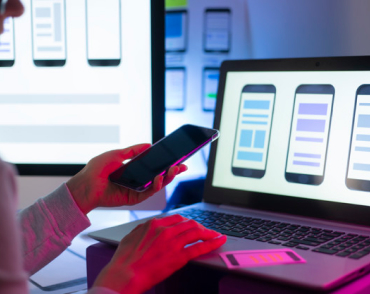
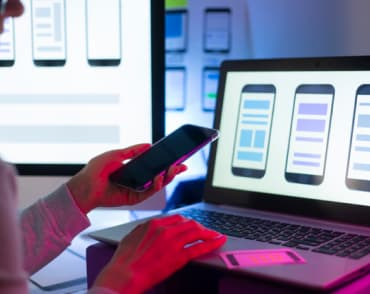
update

diff --git a/css/main.min.css b/css/main.min.css
@@ -1,1 +1,1 @@
-:root{--title-color: #212121;--hero-color: #ffffff;--background-color: #ffffff;--fon-color: #2f303a;--accent-color: #2196f3;--text-color: #757575;--addres-text: rgba(255, 255, 255, 0.6);--background-button: #f5f4fa;--background-team: #f5f4fa;--border-color: #eeeeee;--header-line: #ececec;--icon-color: #afb1b8;--hover-blue: #188CE8}.container{width:100%;margin:0 auto;padding:0 15px}@media screen and (min-width: 480px){.container{max-width:480px}}@media screen and (min-width: 768px){.container{max-width:768px}}@media screen and (min-width: 1200px){.container{max-width:1200px}}.nav__list,.contacts,.specifics__list,.ocupation__list,.team__list,.address__list,.filtr__item,.project__item,.location__item,.list{list-style:none}.body{font-family:"Roboto",sans-serif;font-style:normal;font-size:14px;letter-spacing:.03em;color:var(--title-color);background-color:var(--background-color)}ul{padding:0;margin:0}img{display:block;max-width:100%;height:auto}h2{margin:0px}p{margin:0px}.header{border-bottom:1px solid var(--header-line)}.header__container{display:-webkit-box;display:-ms-flexbox;display:flex;-webkit-box-align:center;-ms-flex-align:center;align-items:center}.current::after{position:absolute;display:block;content:"";bottom:-1px;width:100%;height:4px;border-radius:2px;background-color:var(--accent-color);-webkit-transition:background-color 250ms cubic-bezier(0.4, 0, 0.2, 1);transition:background-color 250ms cubic-bezier(0.4, 0, 0.2, 1)}.logo{color:var(--accent-color);font-family:"Raleway",sans-serif;font-weight:700;font-size:26px;line-height:1.2;text-decoration:none}.menu__logo{color:var(--title-color)}.logo__footer{color:var(--hero-color)}.nav{display:-webkit-box;display:-ms-flexbox;display:flex;text-align:center;-webkit-box-align:center;-ms-flex-align:center;align-items:center}.nav__list{display:-webkit-box;display:-ms-flexbox;display:flex;gap:50px;margin-left:93px;-webkit-box-align:center;-ms-flex-align:center;align-items:center}.nav__item{font-weight:500;color:var(--title-color);-webkit-transition:color 250ms cubic-bezier(0.4, 0, 0.2, 1);transition:color 250ms cubic-bezier(0.4, 0, 0.2, 1)}.nav__text.current{color:var(--accent-color);position:relative;-webkit-transition:color 250ms cubic-bezier(0.4, 0, 0.2, 1);transition:color 250ms cubic-bezier(0.4, 0, 0.2, 1)}.nav__list .contacts :hover,.header :focus{color:var(--accent-color)}.nav__item :hover,.nav__item :focus{color:var(--accent-color)}.nav__text{display:block;padding:32px 0;line-height:1.14;letter-spacing:.02em;text-decoration:none;text-align:center;color:var(--title-color);-webkit-transition:color 250ms cubic-bezier(0.4, 0, 0.2, 1);transition:color 250ms cubic-bezier(0.4, 0, 0.2, 1)}.contacts{margin-left:auto;gap:30px;display:-webkit-box;display:-ms-flexbox;display:flex}.contacts__item{font-weight:500;color:var(--text-color);background-color:var(--background-color)}.contacts__text{text-decoration:none;color:var(--text-color);gap:10px;display:-webkit-box;display:-ms-flexbox;display:flex;-webkit-box-align:center;-ms-flex-align:center;align-items:center;-webkit-box-pack:center;-ms-flex-pack:center;justify-content:center;-webkit-transition:color 250ms cubic-bezier(0.4, 0, 0.2, 1);transition:color 250ms cubic-bezier(0.4, 0, 0.2, 1)}.contacts__text:hover,.contacts__text:focus{color:var(--accent-color)}.contacts__icon{width:16px;height:16px;fill:var(--text-color);-webkit-transition:fill 250ms cubic-bezier(0.4, 0, 0.2, 1);transition:fill 250ms cubic-bezier(0.4, 0, 0.2, 1)}.contacts__text:hover .contacts__icon,.contacts__text:focus .contacts__icon{fill:var(--accent-color)}.hero{padding:200px 0;max-width:100%;margin:0 auto;background-image:-webkit-gradient(linear, left top, left bottom, from(rgba(47, 48, 58, 0.4)), to(rgba(47, 48, 58, 0.4))),url(/images/heromo1x.jpg);background-image:linear-gradient(rgba(47, 48, 58, 0.4), rgba(47, 48, 58, 0.4)),url(/images/heromo1x.jpg);background-repeat:no-repeat;background-position:center;background-size:cover;-webkit-transition:background-image 250ms cubic-bezier(0.4, 0, 0.2, 1);transition:background-image 250ms cubic-bezier(0.4, 0, 0.2, 1)}@media(min-device-pixel-ratio: 2),(-webkit-min-device-pixel-ratio: 2),(min-resolution: 192dpi),(min-resolution: 2dppx){.hero{background-image:-webkit-gradient(linear, left top, left bottom, from(rgba(47, 48, 58, 0.4)), to(rgba(47, 48, 58, 0.4))),url(/images/heromo2x.jpg);background-image:linear-gradient(rgba(47, 48, 58, 0.4), rgba(47, 48, 58, 0.4)),url(/images/heromo2x.jpg)}}.hero__title{text-transform:uppercase;font-style:normal;font-weight:900;font-size:44px;width:696px;text-align:center;margin:0 auto;line-height:1.36;color:var(--hero-color);-webkit-transition:color 250ms cubic-bezier(0.4, 0, 0.2, 1);transition:color 250ms cubic-bezier(0.4, 0, 0.2, 1)}.hero__button{font-weight:700;font-size:16px;line-height:1.8;color:var(--hero-color);width:216px;padding:10px 32px;margin:40px auto 0;border:none;cursor:pointer;background-color:var(--accent-color);border-radius:4px;display:block;letter-spacing:inherit;-webkit-transition:background-color 250ms cubic-bezier(0.4, 0, 0.2, 1);transition:background-color 250ms cubic-bezier(0.4, 0, 0.2, 1)}.specifics{padding-top:94px}.specifics__caption{position:absolute;white-space:nowrap;width:1px;height:1px;overflow:hidden;border:0;padding:0;clip:rect(0 0 0 0);-webkit-clip-path:inset(50%);clip-path:inset(50%);margin:-1px}.specifics__list{display:-webkit-box;display:-ms-flexbox;display:flex;padding:94px auto;gap:30px}.specifics__link{max-width:270px}.specifics__title{font-weight:700;font-size:14px;line-height:1.14;margin:0;text-transform:uppercase;color:var(--title-color)}.specifics__text{font-size:14px;line-height:1.714;margin-top:10px;color:var(--text-color)}.planning{display:-webkit-box;display:-ms-flexbox;display:flex;width:270px;height:120px;background:var(--background-team);border-radius:4px;-webkit-box-pack:center;-ms-flex-pack:center;justify-content:center;-webkit-box-align:center;-ms-flex-align:center;align-items:center;margin-bottom:30px}.ocupation{padding-top:94px;padding-bottom:94px}.ocupation__title{font-weight:700;font-size:36px;line-height:1.16;text-align:center;color:var(--title-color)}.ocupation__list{display:-webkit-box;display:-ms-flexbox;display:flex;gap:30px;margin-top:50px}.ocupation__link{position:relative;overflow:hidden}.ocupation__text{font-weight:700;font-size:14px;line-height:1.1428571429;text-align:center;letter-spacing:.03em;text-transform:uppercase;position:absolute;bottom:0;padding:27px 0;width:100%;color:var(--background-color);background-color:rgba(47,48,58,.8)}.team{background:var(--background-team)}.section{padding-top:94px;padding-bottom:94px}.team__cart{padding-top:30px;padding-bottom:30px}.team__title{font-weight:700;font-size:36px;line-height:1.16;margin-bottom:50px;text-align:center}.team__list{display:-webkit-box;display:-ms-flexbox;display:flex;gap:30px;text-align:center;-webkit-box-pack:center;-ms-flex-pack:center;justify-content:center}.personal__link{background-color:var(--background-color);-webkit-box-shadow:0px 1px 3px rgba(0,0,0,.12),0px 1px 1px rgba(0,0,0,.14),0px 2px 1px rgba(0,0,0,.2);box-shadow:0px 1px 3px rgba(0,0,0,.12),0px 1px 1px rgba(0,0,0,.14),0px 2px 1px rgba(0,0,0,.2);border-radius:0px 0px 4px 4px}.personal__title{font-weight:500;font-size:16px;line-height:1.18;margin:0;color:var(--title-color)}.personal__text{font-weight:400;font-size:16px;line-height:1.18;margin-top:10px;color:var(--text-color);margin-bottom:16px}.personal__soc__list{display:-webkit-box;display:-ms-flexbox;display:flex;-webkit-box-pack:center;-ms-flex-pack:center;justify-content:center;gap:10px}.personal__soc__link{width:44px;height:44px;border-radius:50%;background-color:var(--background-color);display:-webkit-box;display:-ms-flexbox;display:flex;-webkit-box-align:center;-ms-flex-align:center;align-items:center;-webkit-box-pack:center;-ms-flex-pack:center;justify-content:center;-webkit-transition:background-color 250ms cubic-bezier(0.4, 0, 0.2, 1);transition:background-color 250ms cubic-bezier(0.4, 0, 0.2, 1)}.personal__soc__icon{fill:var(--icon-color);-webkit-transition:fill 250ms cubic-bezier(0.4, 0, 0.2, 1);transition:fill 250ms cubic-bezier(0.4, 0, 0.2, 1)}.personal__soc__link:hover,.personal__soc__link:focus{background-color:var(--accent-color)}.personal__soc__link:hover .personal__soc__icon,.personal__soc__link:focus .personal__soc__icon{fill:var(--hero-color)}.customers{font-weight:700;font-size:36px;line-height:1.1666666667;text-align:center;letter-spacing:.03em}.customers__item{display:-webkit-box;display:-ms-flexbox;display:flex;margin-top:50px;gap:30px}.customers__link:hover,.customers__link:focus{border-color:var(--accent-color)}.customers__link:hover .customers__icon,.customers__link:focus .customers__icon{fill:var(--accent-color)}.customers__list{width:170px;height:92px}.customers__link{width:100%;height:100%;display:-webkit-box;display:-ms-flexbox;display:flex;-webkit-box-pack:center;-ms-flex-pack:center;justify-content:center;-webkit-box-align:center;-ms-flex-align:center;align-items:center;border:1px solid var(--icon-color);border-radius:4px;-webkit-transition:border 250ms cubic-bezier(0.4, 0, 0.2, 1);transition:border 250ms cubic-bezier(0.4, 0, 0.2, 1)}.customers__icon{fill:var(--icon-color);-webkit-transition:fill 250ms cubic-bezier(0.4, 0, 0.2, 1);transition:fill 250ms cubic-bezier(0.4, 0, 0.2, 1)}.portfolio{padding:94px 0}.filtr__list{display:-webkit-box;display:-ms-flexbox;display:flex;gap:8px;-webkit-box-pack:center;-ms-flex-pack:center;justify-content:center}.button__filtr{font-weight:500;font-size:16px;line-height:1.62;padding:6px 22px;border:none;cursor:pointer;border-radius:4px;background-color:var(--background-button);-webkit-transition:background-color 250ms cubic-bezier(0.4, 0, 0.2, 1),color 250ms cubic-bezier(0.4, 0, 0.2, 1);transition:background-color 250ms cubic-bezier(0.4, 0, 0.2, 1),color 250ms cubic-bezier(0.4, 0, 0.2, 1)}.filtr__link :hover,.filtr__link :focus{color:var(--hero-color);background-color:var(--accent-color)}.button__filtr:hover,.button__filtr:focus{background-color:var(--hover-blue);color:var(--hero-color)}.project__list{display:-webkit-box;display:-ms-flexbox;display:flex;margin-top:50px;-ms-flex-wrap:wrap;flex-wrap:wrap;gap:30px}.project__cart{padding:20px 24px;border-right:1px solid var(--border-color);border-bottom:1px solid var(--border-color);border-left:1px solid var(--border-color)}.project__title{font-weight:700;font-size:18px;line-height:2;margin-bottom:4px;color:var(--title-color)}.project__item{width:370px;height:404px;border:1px solid var(--portfolio-projects-border-color);-webkit-transition:-webkit-box-shadow var(--transition);transition:-webkit-box-shadow var(--transition);transition:box-shadow var(--transition);transition:box-shadow var(--transition), -webkit-box-shadow var(--transition)}.project__text{font-weight:400;font-size:16px;line-height:1.8;color:var(--text-color)}.project__link{text-decoration:none}.project__link:hover .project__top__text{-webkit-transform:translateY(0);transform:translateY(0)}.project__top__wrap{position:relative;overflow:hidden}.project__top__text{position:absolute;top:0;font-weight:400;font-size:18px;line-height:1.5555555556;color:var(--background-color);background-color:rgba(33,150,243,.9);padding:63px 24px;height:100%;-webkit-transform:translateY(100%);transform:translateY(100%);-webkit-transition:-webkit-transform 250ms cubic-bezier(0.4, 0, 0.2, 1);transition:-webkit-transform 250ms cubic-bezier(0.4, 0, 0.2, 1);transition:transform 250ms cubic-bezier(0.4, 0, 0.2, 1);transition:transform 250ms cubic-bezier(0.4, 0, 0.2, 1), -webkit-transform 250ms cubic-bezier(0.4, 0, 0.2, 1);overflow:auto}.project__item:hover,.project__item:focus{-webkit-box-shadow:0px 1px 1px rgba(0,0,0,.12),0px 4px 4px rgba(0,0,0,.06),1px 4px 6px rgba(0,0,0,.16);box-shadow:0px 1px 1px rgba(0,0,0,.12),0px 4px 4px rgba(0,0,0,.06),1px 4px 6px rgba(0,0,0,.16)}.footer{padding:60px 0;background:var(--fon-color)}.address{margin-top:20px;line-height:1.714}.location__text{text-decoration:none;font-family:"Roboto";font-style:normal;font-weight:400;font-size:14px;line-height:1.17;color:var(--hero-color)}.address__text{text-decoration:none;font-family:"Roboto";font-style:normal;font-weight:400;font-size:14px;line-height:1.17;color:var(--addres-text);-webkit-transition:color 250ms cubic-bezier(0.4, 0, 0.2, 1);transition:color 250ms cubic-bezier(0.4, 0, 0.2, 1)}.address__link{margin-top:9px}.address__link:first-child{margin:0}.address__text:hover,.address__text:focus{color:var(--accent-color)}.social__container{margin-left:70px}.social__title{padding-top:12px}.social__title{padding:0;font-weight:700;text-transform:uppercase;color:var(--background-color);margin-bottom:20px;font-size:14px;line-height:1.1}.social__list{display:-webkit-box;display:-ms-flexbox;display:flex;gap:10px;-webkit-transition:color 250ms cubic-bezier(0.4, 0, 0.2, 1);transition:color 250ms cubic-bezier(0.4, 0, 0.2, 1)}.social__item{width:44px;height:44px}.social__link{width:44px;height:44px;border-radius:50%;background-color:rgba(255,255,255,.1);display:-webkit-box;display:-ms-flexbox;display:flex;-webkit-box-align:center;-ms-flex-align:center;align-items:center;-webkit-box-pack:center;-ms-flex-pack:center;justify-content:center;-webkit-transition:background-color 250ms cubic-bezier(0.4, 0, 0.2, 1);transition:background-color 250ms cubic-bezier(0.4, 0, 0.2, 1)}.social__icon{fill:var(--hero-color)}.social__link:hover,.social__link:focus{background-color:var(--accent-color)}.social__link:hover .social__icon,.social__link:focus .social__icon{fill:var(--hero-color)}.subsciption__conteiner{margin-left:93px}.subscription__title{padding:0;font-weight:700;text-transform:uppercase;color:var(--background-color);margin-bottom:20px;font-size:14px;line-height:1.1}.subscription__field{display:-webkit-box;display:-ms-flexbox;display:flex}.subscription__input{width:358px;height:50px;border-radius:4px;padding-left:16px;color:rgba(255,255,255,.6);background-color:var(--fon-color);border:1px solid rgba(255,255,255,.3);-webkit-filter:drop-shadow(0px 4px 4px rgba(0, 0, 0, 0.15));filter:drop-shadow(0px 4px 4px rgba(0, 0, 0, 0.15));outline:rgba(0,0,0,0);cursor:pointer;-webkit-transition:border-color 250ms cubic-bezier(0.4, 0, 0.2, 1);transition:border-color 250ms cubic-bezier(0.4, 0, 0.2, 1)}.subscription__input::-webkit-input-placeholder{font-weight:400;font-size:16px;line-height:1.25;color:rgba(255,255,255,.6)}.subscription__input::-moz-placeholder{font-weight:400;font-size:16px;line-height:1.25;color:rgba(255,255,255,.6)}.subscription__input:-ms-input-placeholder{font-weight:400;font-size:16px;line-height:1.25;color:rgba(255,255,255,.6)}.subscription__input::-ms-input-placeholder{font-weight:400;font-size:16px;line-height:1.25;color:rgba(255,255,255,.6)}.subscription__input::placeholder{font-weight:400;font-size:16px;line-height:1.25;color:rgba(255,255,255,.6)}.subscription__button{font-weight:700;font-size:16px;width:200px;height:50px;line-height:1.875;color:var(--hero-color);width:200px;margin-left:12px;border:none;cursor:pointer;background-color:var(--accent-color);-webkit-box-shadow:0px 4px 4px rgba(0,0,0,.15);box-shadow:0px 4px 4px rgba(0,0,0,.15);border-radius:4px;display:-webkit-box;display:-ms-flexbox;display:flex;letter-spacing:inherit;-webkit-box-align:center;-ms-flex-align:center;align-items:center;-webkit-box-pack:center;-ms-flex-pack:center;justify-content:center;-webkit-transition:color 250ms cubic-bezier(0.4, 0, 0.2, 1);transition:color 250ms cubic-bezier(0.4, 0, 0.2, 1);-webkit-transition:background-color 250ms cubic-bezier(0.4, 0, 0.2, 1);transition:background-color 250ms cubic-bezier(0.4, 0, 0.2, 1)}.subscription__icon{margin-left:10px;fill:var(--background-color)}.subscription__button:hover,.subscription__button:focus{color:var(--background-color);background-color:var(--hover-blue)}.basement{display:-webkit-box;display:-ms-flexbox;display:flex;-webkit-box-align:baseline;-ms-flex-align:baseline;align-items:baseline}.backdrop{position:fixed;top:0;width:100%;height:100%;background:rgba(0,0,0,.2);opacity:1;-webkit-transition:opacity 250ms cubic-bezier(0.4, 0, 0.2, 1),visibility 250ms cubic-bezier(0.4, 0, 0.2, 1);transition:opacity 250ms cubic-bezier(0.4, 0, 0.2, 1),visibility 250ms cubic-bezier(0.4, 0, 0.2, 1)}.is__hidden{opacity:0;visibility:hidden;pointer-events:none}.visually__hidden{position:absolute;width:1px;height:1px;margin:-1px;border:0;padding:0;white-space:nowrap;-webkit-clip-path:inset(100%);clip-path:inset(100%);clip:rect(0 0 0 0);overflow:hidden}.modal{width:528px;height:581px;background-color:var(--background-color);-webkit-box-shadow:0px 1px 3px rgba(0,0,0,.12),0px 1px 1px rgba(0,0,0,.14),0px 2px 1px rgba(0,0,0,.2);box-shadow:0px 1px 3px rgba(0,0,0,.12),0px 1px 1px rgba(0,0,0,.14),0px 2px 1px rgba(0,0,0,.2);border-radius:4px;position:absolute;top:50%;left:50%;-webkit-transform:translate(-50%, -50%) scale(1);transform:translate(-50%, -50%) scale(1);-webkit-transition:-webkit-transform 250ms cubic-bezier(0.4, 0, 0.2, 1);transition:-webkit-transform 250ms cubic-bezier(0.4, 0, 0.2, 1);transition:transform 250ms cubic-bezier(0.4, 0, 0.2, 1);transition:transform 250ms cubic-bezier(0.4, 0, 0.2, 1), -webkit-transform 250ms cubic-bezier(0.4, 0, 0.2, 1);padding:40px}.modal__title{font-weight:700;font-size:20px;line-height:1.15;text-align:center;color:var(--title-color);margin-bottom:12px}.modal__field{margin-bottom:10px;max-height:138px}.modal__field:last-child{margin-bottom:0}.modal__checkbox{margin-top:20px}.conditions__text{font-size:14px;line-height:1.7142857143;color:var(--text-color);display:-webkit-box;display:-ms-flexbox;display:flex;-webkit-box-pack:center;-ms-flex-pack:center;justify-content:center;-webkit-box-align:center;-ms-flex-align:center;align-items:center;cursor:pointer}.conditions__text span{width:16px;height:15px;border:2px solid #212121;margin-right:8px;border-radius:2px;display:-webkit-box;display:-ms-flexbox;display:flex;-webkit-box-align:center;-ms-flex-align:center;align-items:center;-webkit-box-pack:center;-ms-flex-pack:center;justify-content:center;fill:rgba(0,0,0,0)}.contract__text{color:var(--accent-color);font-size:14px;line-height:1.7142857143;margin-left:4px}.visually__hidden{position:absolute;width:1px;height:1px;margin:-1px;border:0;padding:0;white-space:nowrap;-webkit-clip-path:inset(100%);clip-path:inset(100%);clip:rect(0 0 0 0);overflow:hidden}.modal__input{width:100%;height:40px;border:1px solid rgba(33,33,33,.2);border-radius:4px;padding-left:42px;outline:rgba(0,0,0,0);cursor:pointer;-webkit-transition:border-color 250ms cubic-bezier(0.4, 0, 0.2, 1);transition:border-color 250ms cubic-bezier(0.4, 0, 0.2, 1)}.input__message{width:100%;height:120px;border:1px solid rgba(33,33,33,.2);border-radius:4px;padding:12px 16px;outline:rgba(0,0,0,0);cursor:pointer;-webkit-transition:border-color 250ms cubic-bezier(0.4, 0, 0.2, 1);transition:border-color 250ms cubic-bezier(0.4, 0, 0.2, 1);resize:none}.input__checkbox:checked+.conditions__text span{background-color:var(--accent-color);border:none;fill:var(--hero-color)}.input__wrap{position:relative}.modal__icon{position:absolute;left:12px;top:50%;-webkit-transform:translateY(-50%);transform:translateY(-50%);-webkit-transition:fill 250ms cubic-bezier(0.4, 0, 0.2, 1);transition:fill 250ms cubic-bezier(0.4, 0, 0.2, 1)}.modal__input::-webkit-input-placeholder{font-weight:400;font-size:12px;line-height:14px;letter-spacing:.01em;color:rgba(117,117,117,.5)}.modal__input::-moz-placeholder{font-weight:400;font-size:12px;line-height:14px;letter-spacing:.01em;color:rgba(117,117,117,.5)}.modal__input:-ms-input-placeholder{font-weight:400;font-size:12px;line-height:14px;letter-spacing:.01em;color:rgba(117,117,117,.5)}.modal__input::-ms-input-placeholder{font-weight:400;font-size:12px;line-height:14px;letter-spacing:.01em;color:rgba(117,117,117,.5)}.modal__input::placeholder{font-weight:400;font-size:12px;line-height:14px;letter-spacing:.01em;color:rgba(117,117,117,.5)}.modal__input:hover,.modal__input:focus{border-color:var(--accent-color)}.modal__input:hover+.modal__icon,.modal__input:focus+.modal__icon{fill:var(--accent-color)}.input__text{font-weight:400;font-size:12px;line-height:1.1666666667;letter-spacing:.01em;color:var(--text-color);display:inline-block;margin-bottom:4px}textarea::-webkit-input-placeholder{font-weight:400;font-size:12px;line-height:1.1666666667;letter-spacing:.01em;color:rgba(117,117,117,.5)}textarea::-moz-placeholder{font-weight:400;font-size:12px;line-height:1.1666666667;letter-spacing:.01em;color:rgba(117,117,117,.5)}textarea:-ms-input-placeholder{font-weight:400;font-size:12px;line-height:1.1666666667;letter-spacing:.01em;color:rgba(117,117,117,.5)}textarea::-ms-input-placeholder{font-weight:400;font-size:12px;line-height:1.1666666667;letter-spacing:.01em;color:rgba(117,117,117,.5)}textarea::placeholder{font-weight:400;font-size:12px;line-height:1.1666666667;letter-spacing:.01em;color:rgba(117,117,117,.5)}.input__message:hover,.input__message:focus{border-color:var(--accent-color)}.backdrop.is__hidden .modal{-webkit-transform:translate(-50%, -50%) scale(0);transform:translate(-50%, -50%) scale(0)}.send__button{font-weight:700;font-size:16px;line-height:1.875;color:var(--hero-color);width:200px;padding:10px 52px;margin:30px auto;margin-bottom:0;border:none;cursor:pointer;background-color:var(--accent-color);-webkit-box-shadow:0px 4px 4px rgba(0,0,0,.15);box-shadow:0px 4px 4px rgba(0,0,0,.15);border-radius:4px;display:block;letter-spacing:inherit;-webkit-transition:background-color 250ms cubic-bezier(0.4, 0, 0.2, 1);transition:background-color 250ms cubic-bezier(0.4, 0, 0.2, 1)}.send__button:hover,.send__button:focus{background-color:var(--hover-blue)}.close__button{position:absolute;right:8px;top:8px;width:30px;height:30px;cursor:pointer;background:var(--background-color);border:1px solid rgba(0,0,0,.1);border-radius:50%;background-color:rgba(0,0,0,0);display:-webkit-box;display:-ms-flexbox;display:flex;-webkit-box-align:center;-ms-flex-align:center;align-items:center;-webkit-transition:fill 250ms cubic-bezier(0.4, 0, 0.2, 1);transition:fill 250ms cubic-bezier(0.4, 0, 0.2, 1)}.close__button:hover,.close__button:focus{fill:var(--accent-color)}.icon__close{margin:0 auto;padding:0 auto}/*# sourceMappingURL=main.min.css.map */
+:root{--title-color: #212121;--hero-color: #ffffff;--background-color: #ffffff;--fon-color: #2f303a;--accent-color: #2196f3;--text-color: #757575;--addres-text: rgba(255, 255, 255, 0.6);--background-button: #f5f4fa;--background-team: #f5f4fa;--border-color: #eeeeee;--header-line: #ececec;--icon-color: #afb1b8;--hover-blue: #188CE8}.container{width:100%;margin:0 auto;padding:0 15px}@media screen and (min-width: 480px){.container{max-width:480px}}@media screen and (min-width: 768px){.container{max-width:768px}}@media screen and (min-width: 1200px){.container{max-width:1200px}}.nav__list,.contacts,.specifics__list,.ocupation__list,.team__list,.address__list,.filtr__item,.project__item,.location__item,.list{list-style:none}.body{font-family:"Roboto",sans-serif;font-style:normal;font-size:14px;letter-spacing:.03em;color:var(--title-color);background-color:var(--background-color)}ul{padding:0;margin:0}img{display:block;max-width:100%;height:auto}h2{margin:0px}p{margin:0px}.header{border-bottom:1px solid var(--header-line)}.header__container{display:-webkit-box;display:-ms-flexbox;display:flex;-webkit-box-align:center;-ms-flex-align:center;align-items:center}.current::after{position:absolute;display:block;content:"";bottom:-1px;width:100%;height:4px;border-radius:2px;background-color:var(--accent-color);-webkit-transition:background-color 250ms cubic-bezier(0.4, 0, 0.2, 1);transition:background-color 250ms cubic-bezier(0.4, 0, 0.2, 1)}.logo{color:var(--accent-color);font-family:"Raleway",sans-serif;font-weight:700;font-size:26px;line-height:1.2;text-decoration:none}.menu__logo{color:var(--title-color)}.logo__footer{color:var(--hero-color)}.nav{display:-webkit-box;display:-ms-flexbox;display:flex;text-align:center;-webkit-box-align:center;-ms-flex-align:center;align-items:center}.nav__list{display:-webkit-box;display:-ms-flexbox;display:flex;gap:50px;margin-left:93px;-webkit-box-align:center;-ms-flex-align:center;align-items:center}.nav__item{font-weight:500;color:var(--title-color);-webkit-transition:color 250ms cubic-bezier(0.4, 0, 0.2, 1);transition:color 250ms cubic-bezier(0.4, 0, 0.2, 1)}.nav__text.current{color:var(--accent-color);position:relative;-webkit-transition:color 250ms cubic-bezier(0.4, 0, 0.2, 1);transition:color 250ms cubic-bezier(0.4, 0, 0.2, 1)}.nav__list .contacts :hover,.header :focus{color:var(--accent-color)}.nav__item :hover,.nav__item :focus{color:var(--accent-color)}.nav__text{display:block;padding:32px 0;line-height:1.14;letter-spacing:.02em;text-decoration:none;text-align:center;color:var(--title-color);-webkit-transition:color 250ms cubic-bezier(0.4, 0, 0.2, 1);transition:color 250ms cubic-bezier(0.4, 0, 0.2, 1)}.contacts{margin-left:auto;gap:30px;display:-webkit-box;display:-ms-flexbox;display:flex}.contacts__item{font-weight:500;color:var(--text-color);background-color:var(--background-color)}.contacts__text{text-decoration:none;color:var(--text-color);gap:10px;display:-webkit-box;display:-ms-flexbox;display:flex;-webkit-box-align:center;-ms-flex-align:center;align-items:center;-webkit-box-pack:center;-ms-flex-pack:center;justify-content:center;-webkit-transition:color 250ms cubic-bezier(0.4, 0, 0.2, 1);transition:color 250ms cubic-bezier(0.4, 0, 0.2, 1)}.contacts__text:hover,.contacts__text:focus{color:var(--accent-color)}.contacts__icon{width:16px;height:16px;fill:var(--text-color);-webkit-transition:fill 250ms cubic-bezier(0.4, 0, 0.2, 1);transition:fill 250ms cubic-bezier(0.4, 0, 0.2, 1)}.contacts__text:hover .contacts__icon,.contacts__text:focus .contacts__icon{fill:var(--accent-color)}.hero{padding:200px 0;max-width:100%;margin:0 auto;background-image:-webkit-gradient(linear, left top, left bottom, from(rgba(47, 48, 58, 0.4)), to(rgba(47, 48, 58, 0.4))),url(/images/heromobo1x.jpg);background-image:linear-gradient(rgba(47, 48, 58, 0.4), rgba(47, 48, 58, 0.4)),url(/images/heromobo1x.jpg);background-repeat:no-repeat;background-position:center;background-size:cover;-webkit-transition:background-image 250ms cubic-bezier(0.4, 0, 0.2, 1);transition:background-image 250ms cubic-bezier(0.4, 0, 0.2, 1)}@media(min-device-pixel-ratio: 2),(-webkit-min-device-pixel-ratio: 2),(min-resolution: 192dpi),(min-resolution: 2dppx){.hero{background-image:-webkit-gradient(linear, left top, left bottom, from(rgba(47, 48, 58, 0.4)), to(rgba(47, 48, 58, 0.4))),url(/images/heromobo2x.jpg);background-image:linear-gradient(rgba(47, 48, 58, 0.4), rgba(47, 48, 58, 0.4)),url(/images/heromobo2x.jpg)}}.hero__title{text-transform:uppercase;font-style:normal;font-weight:900;font-size:44px;width:100%;text-align:center;margin:0 auto;line-height:1.36;color:var(--hero-color);-webkit-transition:color 250ms cubic-bezier(0.4, 0, 0.2, 1);transition:color 250ms cubic-bezier(0.4, 0, 0.2, 1)}.hero__button{font-weight:700;font-size:16px;line-height:1.8;color:var(--hero-color);width:216px;padding:10px 32px;margin:40px auto 0;border:none;cursor:pointer;background-color:var(--accent-color);border-radius:4px;display:block;letter-spacing:inherit;-webkit-transition:background-color 250ms cubic-bezier(0.4, 0, 0.2, 1);transition:background-color 250ms cubic-bezier(0.4, 0, 0.2, 1)}.specifics{padding-top:94px}.specifics__caption{position:absolute;white-space:nowrap;width:1px;height:1px;overflow:hidden;border:0;padding:0;clip:rect(0 0 0 0);-webkit-clip-path:inset(50%);clip-path:inset(50%);margin:-1px}.specifics__list{display:-webkit-box;display:-ms-flexbox;display:flex;padding:94px auto;gap:30px}.specifics__link{max-width:270px}.specifics__title{font-weight:700;font-size:14px;line-height:1.14;margin:0;text-transform:uppercase;color:var(--title-color)}.specifics__text{font-size:14px;line-height:1.714;margin-top:10px;color:var(--text-color)}.planning{display:-webkit-box;display:-ms-flexbox;display:flex;width:270px;height:120px;background:var(--background-team);border-radius:4px;-webkit-box-pack:center;-ms-flex-pack:center;justify-content:center;-webkit-box-align:center;-ms-flex-align:center;align-items:center;margin-bottom:30px}.ocupation{padding-top:94px;padding-bottom:94px}.ocupation__title{font-weight:700;font-size:36px;line-height:1.16;text-align:center;color:var(--title-color)}.ocupation__list{display:-webkit-box;display:-ms-flexbox;display:flex;gap:30px;margin-top:50px}.ocupation__link{position:relative;overflow:hidden}.ocupation__text{font-weight:700;font-size:14px;line-height:1.1428571429;text-align:center;letter-spacing:.03em;text-transform:uppercase;position:absolute;bottom:0;padding:27px 0;width:100%;color:var(--background-color);background-color:rgba(47,48,58,.8)}.team{background:var(--background-team)}.section{padding-top:94px;padding-bottom:94px}.team__cart{padding-top:30px;padding-bottom:30px}.team__title{font-weight:700;font-size:36px;line-height:1.16;margin-bottom:50px;text-align:center}.team__list{display:-webkit-box;display:-ms-flexbox;display:flex;gap:30px;text-align:center;-webkit-box-pack:center;-ms-flex-pack:center;justify-content:center}.personal__link{background-color:var(--background-color);-webkit-box-shadow:0px 1px 3px rgba(0,0,0,.12),0px 1px 1px rgba(0,0,0,.14),0px 2px 1px rgba(0,0,0,.2);box-shadow:0px 1px 3px rgba(0,0,0,.12),0px 1px 1px rgba(0,0,0,.14),0px 2px 1px rgba(0,0,0,.2);border-radius:0px 0px 4px 4px}.personal__title{font-weight:500;font-size:16px;line-height:1.18;margin:0;color:var(--title-color)}.personal__text{font-weight:400;font-size:16px;line-height:1.18;margin-top:10px;color:var(--text-color);margin-bottom:16px}.personal__soc__list{display:-webkit-box;display:-ms-flexbox;display:flex;-webkit-box-pack:center;-ms-flex-pack:center;justify-content:center;gap:10px}.personal__soc__link{width:44px;height:44px;border-radius:50%;background-color:var(--background-color);display:-webkit-box;display:-ms-flexbox;display:flex;-webkit-box-align:center;-ms-flex-align:center;align-items:center;-webkit-box-pack:center;-ms-flex-pack:center;justify-content:center;-webkit-transition:background-color 250ms cubic-bezier(0.4, 0, 0.2, 1);transition:background-color 250ms cubic-bezier(0.4, 0, 0.2, 1)}.personal__soc__icon{fill:var(--icon-color);-webkit-transition:fill 250ms cubic-bezier(0.4, 0, 0.2, 1);transition:fill 250ms cubic-bezier(0.4, 0, 0.2, 1)}.personal__soc__link:hover,.personal__soc__link:focus{background-color:var(--accent-color)}.personal__soc__link:hover .personal__soc__icon,.personal__soc__link:focus .personal__soc__icon{fill:var(--hero-color)}.customers{font-weight:700;font-size:36px;line-height:1.1666666667;text-align:center;letter-spacing:.03em}.customers__item{display:-webkit-box;display:-ms-flexbox;display:flex;margin-top:50px;gap:30px}.customers__link:hover,.customers__link:focus{border-color:var(--accent-color)}.customers__link:hover .customers__icon,.customers__link:focus .customers__icon{fill:var(--accent-color)}.customers__list{width:170px;height:92px}.customers__link{width:100%;height:100%;display:-webkit-box;display:-ms-flexbox;display:flex;-webkit-box-pack:center;-ms-flex-pack:center;justify-content:center;-webkit-box-align:center;-ms-flex-align:center;align-items:center;border:1px solid var(--icon-color);border-radius:4px;-webkit-transition:border 250ms cubic-bezier(0.4, 0, 0.2, 1);transition:border 250ms cubic-bezier(0.4, 0, 0.2, 1)}.customers__icon{fill:var(--icon-color);-webkit-transition:fill 250ms cubic-bezier(0.4, 0, 0.2, 1);transition:fill 250ms cubic-bezier(0.4, 0, 0.2, 1)}.portfolio{padding:94px 0}.filtr__list{display:-webkit-box;display:-ms-flexbox;display:flex;gap:8px;-webkit-box-pack:center;-ms-flex-pack:center;justify-content:center}.button__filtr{font-weight:500;font-size:16px;line-height:1.62;padding:6px 22px;border:none;cursor:pointer;border-radius:4px;background-color:var(--background-button);-webkit-transition:background-color 250ms cubic-bezier(0.4, 0, 0.2, 1),color 250ms cubic-bezier(0.4, 0, 0.2, 1);transition:background-color 250ms cubic-bezier(0.4, 0, 0.2, 1),color 250ms cubic-bezier(0.4, 0, 0.2, 1)}.filtr__link :hover,.filtr__link :focus{color:var(--hero-color);background-color:var(--accent-color)}.button__filtr:hover,.button__filtr:focus{background-color:var(--hover-blue);color:var(--hero-color)}.project__list{display:-webkit-box;display:-ms-flexbox;display:flex;margin-top:50px;-ms-flex-wrap:wrap;flex-wrap:wrap;gap:30px}.project__cart{padding:20px 24px;border-right:1px solid var(--border-color);border-bottom:1px solid var(--border-color);border-left:1px solid var(--border-color)}.project__title{font-weight:700;font-size:18px;line-height:2;margin-bottom:4px;color:var(--title-color)}.project__item{width:370px;height:404px;border:1px solid var(--portfolio-projects-border-color);-webkit-transition:-webkit-box-shadow var(--transition);transition:-webkit-box-shadow var(--transition);transition:box-shadow var(--transition);transition:box-shadow var(--transition), -webkit-box-shadow var(--transition)}.project__text{font-weight:400;font-size:16px;line-height:1.8;color:var(--text-color)}.project__link{text-decoration:none}.project__link:hover .project__top__text{-webkit-transform:translateY(0);transform:translateY(0)}.project__top__wrap{position:relative;overflow:hidden}.project__top__text{position:absolute;top:0;font-weight:400;font-size:18px;line-height:1.5555555556;color:var(--background-color);background-color:rgba(33,150,243,.9);padding:63px 24px;height:100%;-webkit-transform:translateY(100%);transform:translateY(100%);-webkit-transition:-webkit-transform 250ms cubic-bezier(0.4, 0, 0.2, 1);transition:-webkit-transform 250ms cubic-bezier(0.4, 0, 0.2, 1);transition:transform 250ms cubic-bezier(0.4, 0, 0.2, 1);transition:transform 250ms cubic-bezier(0.4, 0, 0.2, 1), -webkit-transform 250ms cubic-bezier(0.4, 0, 0.2, 1);overflow:auto}.project__item:hover,.project__item:focus{-webkit-box-shadow:0px 1px 1px rgba(0,0,0,.12),0px 4px 4px rgba(0,0,0,.06),1px 4px 6px rgba(0,0,0,.16);box-shadow:0px 1px 1px rgba(0,0,0,.12),0px 4px 4px rgba(0,0,0,.06),1px 4px 6px rgba(0,0,0,.16)}.footer{padding:60px 0;background:var(--fon-color)}.address{margin-top:20px;line-height:1.714}.location__text{text-decoration:none;font-family:"Roboto";font-style:normal;font-weight:400;font-size:14px;line-height:1.17;color:var(--hero-color)}.address__text{text-decoration:none;font-family:"Roboto";font-style:normal;font-weight:400;font-size:14px;line-height:1.17;color:var(--addres-text);-webkit-transition:color 250ms cubic-bezier(0.4, 0, 0.2, 1);transition:color 250ms cubic-bezier(0.4, 0, 0.2, 1)}.address__link{margin-top:9px}.address__link:first-child{margin:0}.address__text:hover,.address__text:focus{color:var(--accent-color)}.social__container{margin-left:70px}.social__title{padding-top:12px}.social__title{padding:0;font-weight:700;text-transform:uppercase;color:var(--background-color);margin-bottom:20px;font-size:14px;line-height:1.1}.social__list{display:-webkit-box;display:-ms-flexbox;display:flex;gap:10px;-webkit-transition:color 250ms cubic-bezier(0.4, 0, 0.2, 1);transition:color 250ms cubic-bezier(0.4, 0, 0.2, 1)}.social__item{width:44px;height:44px}.social__link{width:44px;height:44px;border-radius:50%;background-color:rgba(255,255,255,.1);display:-webkit-box;display:-ms-flexbox;display:flex;-webkit-box-align:center;-ms-flex-align:center;align-items:center;-webkit-box-pack:center;-ms-flex-pack:center;justify-content:center;-webkit-transition:background-color 250ms cubic-bezier(0.4, 0, 0.2, 1);transition:background-color 250ms cubic-bezier(0.4, 0, 0.2, 1)}.social__icon{fill:var(--hero-color)}.social__link:hover,.social__link:focus{background-color:var(--accent-color)}.social__link:hover .social__icon,.social__link:focus .social__icon{fill:var(--hero-color)}.subsciption__conteiner{margin-left:93px}.subscription__title{padding:0;font-weight:700;text-transform:uppercase;color:var(--background-color);margin-bottom:20px;font-size:14px;line-height:1.1}.subscription__field{display:-webkit-box;display:-ms-flexbox;display:flex}.subscription__input{width:358px;height:50px;border-radius:4px;padding-left:16px;color:rgba(255,255,255,.6);background-color:var(--fon-color);border:1px solid rgba(255,255,255,.3);-webkit-filter:drop-shadow(0px 4px 4px rgba(0, 0, 0, 0.15));filter:drop-shadow(0px 4px 4px rgba(0, 0, 0, 0.15));outline:rgba(0,0,0,0);cursor:pointer;-webkit-transition:border-color 250ms cubic-bezier(0.4, 0, 0.2, 1);transition:border-color 250ms cubic-bezier(0.4, 0, 0.2, 1)}.subscription__input::-webkit-input-placeholder{font-weight:400;font-size:16px;line-height:1.25;color:rgba(255,255,255,.6)}.subscription__input::-moz-placeholder{font-weight:400;font-size:16px;line-height:1.25;color:rgba(255,255,255,.6)}.subscription__input:-ms-input-placeholder{font-weight:400;font-size:16px;line-height:1.25;color:rgba(255,255,255,.6)}.subscription__input::-ms-input-placeholder{font-weight:400;font-size:16px;line-height:1.25;color:rgba(255,255,255,.6)}.subscription__input::placeholder{font-weight:400;font-size:16px;line-height:1.25;color:rgba(255,255,255,.6)}.subscription__button{font-weight:700;font-size:16px;width:200px;height:50px;line-height:1.875;color:var(--hero-color);width:200px;margin-left:12px;border:none;cursor:pointer;background-color:var(--accent-color);-webkit-box-shadow:0px 4px 4px rgba(0,0,0,.15);box-shadow:0px 4px 4px rgba(0,0,0,.15);border-radius:4px;display:-webkit-box;display:-ms-flexbox;display:flex;letter-spacing:inherit;-webkit-box-align:center;-ms-flex-align:center;align-items:center;-webkit-box-pack:center;-ms-flex-pack:center;justify-content:center;-webkit-transition:color 250ms cubic-bezier(0.4, 0, 0.2, 1);transition:color 250ms cubic-bezier(0.4, 0, 0.2, 1);-webkit-transition:background-color 250ms cubic-bezier(0.4, 0, 0.2, 1);transition:background-color 250ms cubic-bezier(0.4, 0, 0.2, 1)}.subscription__icon{margin-left:10px;fill:var(--background-color)}.subscription__button:hover,.subscription__button:focus{color:var(--background-color);background-color:var(--hover-blue)}.basement{display:-webkit-box;display:-ms-flexbox;display:flex;-webkit-box-align:baseline;-ms-flex-align:baseline;align-items:baseline}.backdrop{position:fixed;top:0;width:100%;height:100%;background:rgba(0,0,0,.2);opacity:1;-webkit-transition:opacity 250ms cubic-bezier(0.4, 0, 0.2, 1),visibility 250ms cubic-bezier(0.4, 0, 0.2, 1);transition:opacity 250ms cubic-bezier(0.4, 0, 0.2, 1),visibility 250ms cubic-bezier(0.4, 0, 0.2, 1)}.is__hidden{opacity:0;visibility:hidden;pointer-events:none}.visually__hidden{position:absolute;width:1px;height:1px;margin:-1px;border:0;padding:0;white-space:nowrap;-webkit-clip-path:inset(100%);clip-path:inset(100%);clip:rect(0 0 0 0);overflow:hidden}.modal{width:528px;height:581px;background-color:var(--background-color);-webkit-box-shadow:0px 1px 3px rgba(0,0,0,.12),0px 1px 1px rgba(0,0,0,.14),0px 2px 1px rgba(0,0,0,.2);box-shadow:0px 1px 3px rgba(0,0,0,.12),0px 1px 1px rgba(0,0,0,.14),0px 2px 1px rgba(0,0,0,.2);border-radius:4px;position:absolute;top:50%;left:50%;-webkit-transform:translate(-50%, -50%) scale(1);transform:translate(-50%, -50%) scale(1);-webkit-transition:-webkit-transform 250ms cubic-bezier(0.4, 0, 0.2, 1);transition:-webkit-transform 250ms cubic-bezier(0.4, 0, 0.2, 1);transition:transform 250ms cubic-bezier(0.4, 0, 0.2, 1);transition:transform 250ms cubic-bezier(0.4, 0, 0.2, 1), -webkit-transform 250ms cubic-bezier(0.4, 0, 0.2, 1);padding:40px}.modal__title{font-weight:700;font-size:20px;line-height:1.15;text-align:center;color:var(--title-color);margin-bottom:12px}.modal__field{margin-bottom:10px;max-height:138px}.modal__field:last-child{margin-bottom:0}.modal__checkbox{margin-top:20px}.conditions__text{font-size:14px;line-height:1.7142857143;color:var(--text-color);display:-webkit-box;display:-ms-flexbox;display:flex;-webkit-box-pack:center;-ms-flex-pack:center;justify-content:center;-webkit-box-align:center;-ms-flex-align:center;align-items:center;cursor:pointer}.conditions__text span{width:16px;height:15px;border:2px solid #212121;margin-right:8px;border-radius:2px;display:-webkit-box;display:-ms-flexbox;display:flex;-webkit-box-align:center;-ms-flex-align:center;align-items:center;-webkit-box-pack:center;-ms-flex-pack:center;justify-content:center;fill:rgba(0,0,0,0)}.contract__text{color:var(--accent-color);font-size:14px;line-height:1.7142857143;margin-left:4px}.visually__hidden{position:absolute;width:1px;height:1px;margin:-1px;border:0;padding:0;white-space:nowrap;-webkit-clip-path:inset(100%);clip-path:inset(100%);clip:rect(0 0 0 0);overflow:hidden}.modal__input{width:100%;height:40px;border:1px solid rgba(33,33,33,.2);border-radius:4px;padding-left:42px;outline:rgba(0,0,0,0);cursor:pointer;-webkit-transition:border-color 250ms cubic-bezier(0.4, 0, 0.2, 1);transition:border-color 250ms cubic-bezier(0.4, 0, 0.2, 1)}.input__message{width:100%;height:120px;border:1px solid rgba(33,33,33,.2);border-radius:4px;padding:12px 16px;outline:rgba(0,0,0,0);cursor:pointer;-webkit-transition:border-color 250ms cubic-bezier(0.4, 0, 0.2, 1);transition:border-color 250ms cubic-bezier(0.4, 0, 0.2, 1);resize:none}.input__checkbox:checked+.conditions__text span{background-color:var(--accent-color);border:none;fill:var(--hero-color)}.input__wrap{position:relative}.modal__icon{position:absolute;left:12px;top:50%;-webkit-transform:translateY(-50%);transform:translateY(-50%);-webkit-transition:fill 250ms cubic-bezier(0.4, 0, 0.2, 1);transition:fill 250ms cubic-bezier(0.4, 0, 0.2, 1)}.modal__input::-webkit-input-placeholder{font-weight:400;font-size:12px;line-height:14px;letter-spacing:.01em;color:rgba(117,117,117,.5)}.modal__input::-moz-placeholder{font-weight:400;font-size:12px;line-height:14px;letter-spacing:.01em;color:rgba(117,117,117,.5)}.modal__input:-ms-input-placeholder{font-weight:400;font-size:12px;line-height:14px;letter-spacing:.01em;color:rgba(117,117,117,.5)}.modal__input::-ms-input-placeholder{font-weight:400;font-size:12px;line-height:14px;letter-spacing:.01em;color:rgba(117,117,117,.5)}.modal__input::placeholder{font-weight:400;font-size:12px;line-height:14px;letter-spacing:.01em;color:rgba(117,117,117,.5)}.modal__input:hover,.modal__input:focus{border-color:var(--accent-color)}.modal__input:hover+.modal__icon,.modal__input:focus+.modal__icon{fill:var(--accent-color)}.input__text{font-weight:400;font-size:12px;line-height:1.1666666667;letter-spacing:.01em;color:var(--text-color);display:inline-block;margin-bottom:4px}textarea::-webkit-input-placeholder{font-weight:400;font-size:12px;line-height:1.1666666667;letter-spacing:.01em;color:rgba(117,117,117,.5)}textarea::-moz-placeholder{font-weight:400;font-size:12px;line-height:1.1666666667;letter-spacing:.01em;color:rgba(117,117,117,.5)}textarea:-ms-input-placeholder{font-weight:400;font-size:12px;line-height:1.1666666667;letter-spacing:.01em;color:rgba(117,117,117,.5)}textarea::-ms-input-placeholder{font-weight:400;font-size:12px;line-height:1.1666666667;letter-spacing:.01em;color:rgba(117,117,117,.5)}textarea::placeholder{font-weight:400;font-size:12px;line-height:1.1666666667;letter-spacing:.01em;color:rgba(117,117,117,.5)}.input__message:hover,.input__message:focus{border-color:var(--accent-color)}.backdrop.is__hidden .modal{-webkit-transform:translate(-50%, -50%) scale(0);transform:translate(-50%, -50%) scale(0)}.send__button{font-weight:700;font-size:16px;line-height:1.875;color:var(--hero-color);width:200px;padding:10px 52px;margin:30px auto;margin-bottom:0;border:none;cursor:pointer;background-color:var(--accent-color);-webkit-box-shadow:0px 4px 4px rgba(0,0,0,.15);box-shadow:0px 4px 4px rgba(0,0,0,.15);border-radius:4px;display:block;letter-spacing:inherit;-webkit-transition:background-color 250ms cubic-bezier(0.4, 0, 0.2, 1);transition:background-color 250ms cubic-bezier(0.4, 0, 0.2, 1)}.send__button:hover,.send__button:focus{background-color:var(--hover-blue)}.close__button{position:absolute;right:8px;top:8px;width:30px;height:30px;cursor:pointer;background:var(--background-color);border:1px solid rgba(0,0,0,.1);border-radius:50%;background-color:rgba(0,0,0,0);display:-webkit-box;display:-ms-flexbox;display:flex;-webkit-box-align:center;-ms-flex-align:center;align-items:center;-webkit-transition:fill 250ms cubic-bezier(0.4, 0, 0.2, 1);transition:fill 250ms cubic-bezier(0.4, 0, 0.2, 1)}.close__button:hover,.close__button:focus{fill:var(--accent-color)}.icon__close{margin:0 auto;padding:0 auto}/*# sourceMappingURL=main.min.css.map */

diff --git a/css/main.css b/css/main.css
@@ -229,8 +229,8 @@ p {
   padding: 200px 0;
   max-width: 100%;
   margin: 0 auto;
-  background-image: -webkit-gradient(linear, left top, left bottom, from(rgba(47, 48, 58, 0.4)), to(rgba(47, 48, 58, 0.4))), url(/images/heromo1x.jpg);
-  background-image: linear-gradient(rgba(47, 48, 58, 0.4), rgba(47, 48, 58, 0.4)), url(/images/heromo1x.jpg);
+  background-image: -webkit-gradient(linear, left top, left bottom, from(rgba(47, 48, 58, 0.4)), to(rgba(47, 48, 58, 0.4))), url(/images/heromobo1x.jpg);
+  background-image: linear-gradient(rgba(47, 48, 58, 0.4), rgba(47, 48, 58, 0.4)), url(/images/heromobo1x.jpg);
   background-repeat: no-repeat;
   background-position: center;
   background-size: cover;
@@ -239,8 +239,8 @@ p {
 }
 @media (min-device-pixel-ratio: 2), (-webkit-min-device-pixel-ratio: 2), (min-resolution: 192dpi), (min-resolution: 2dppx) {
   .hero {
-    background-image: -webkit-gradient(linear, left top, left bottom, from(rgba(47, 48, 58, 0.4)), to(rgba(47, 48, 58, 0.4))), url(/images/heromo2x.jpg);
-    background-image: linear-gradient(rgba(47, 48, 58, 0.4), rgba(47, 48, 58, 0.4)), url(/images/heromo2x.jpg);
+    background-image: -webkit-gradient(linear, left top, left bottom, from(rgba(47, 48, 58, 0.4)), to(rgba(47, 48, 58, 0.4))), url(/images/heromobo2x.jpg);
+    background-image: linear-gradient(rgba(47, 48, 58, 0.4), rgba(47, 48, 58, 0.4)), url(/images/heromobo2x.jpg);
   }
 }
 
@@ -249,7 +249,7 @@ p {
   font-style: normal;
   font-weight: 900;
   font-size: 44px;
-  width: 696px;
+  width: 100%;
   text-align: center;
   margin: 0 auto;
   line-height: 1.36;

diff --git a/sass/components/_hero.scss b/sass/components/_hero.scss
@@ -4,7 +4,7 @@
     margin: 0 auto;
     background-image: linear-gradient(rgba(47, 48, 58, 0.4),
             rgba(47, 48, 58, 0.4)),
-        url(/images/heromo1x.jpg);
+        url(/images/heromobo1x.jpg);
     background-repeat: no-repeat;
     background-position: center;
     background-size: cover;
@@ -16,7 +16,7 @@
             (min-resolution: 2dppx) {
                 background-image: linear-gradient(rgba(47, 48, 58, 0.4),
                             rgba(47, 48, 58, 0.4)),
-                        url(/images/heromo2x.jpg);
+                        url(/images/heromobo2x.jpg);
             }
 
 }
@@ -26,7 +26,7 @@
     font-style: normal;
     font-weight: 900;
     font-size: 44px;
-    width: 696px;
+    width: 100%;
     text-align: center;
     margin: 0 auto;
     line-height: 1.36;
